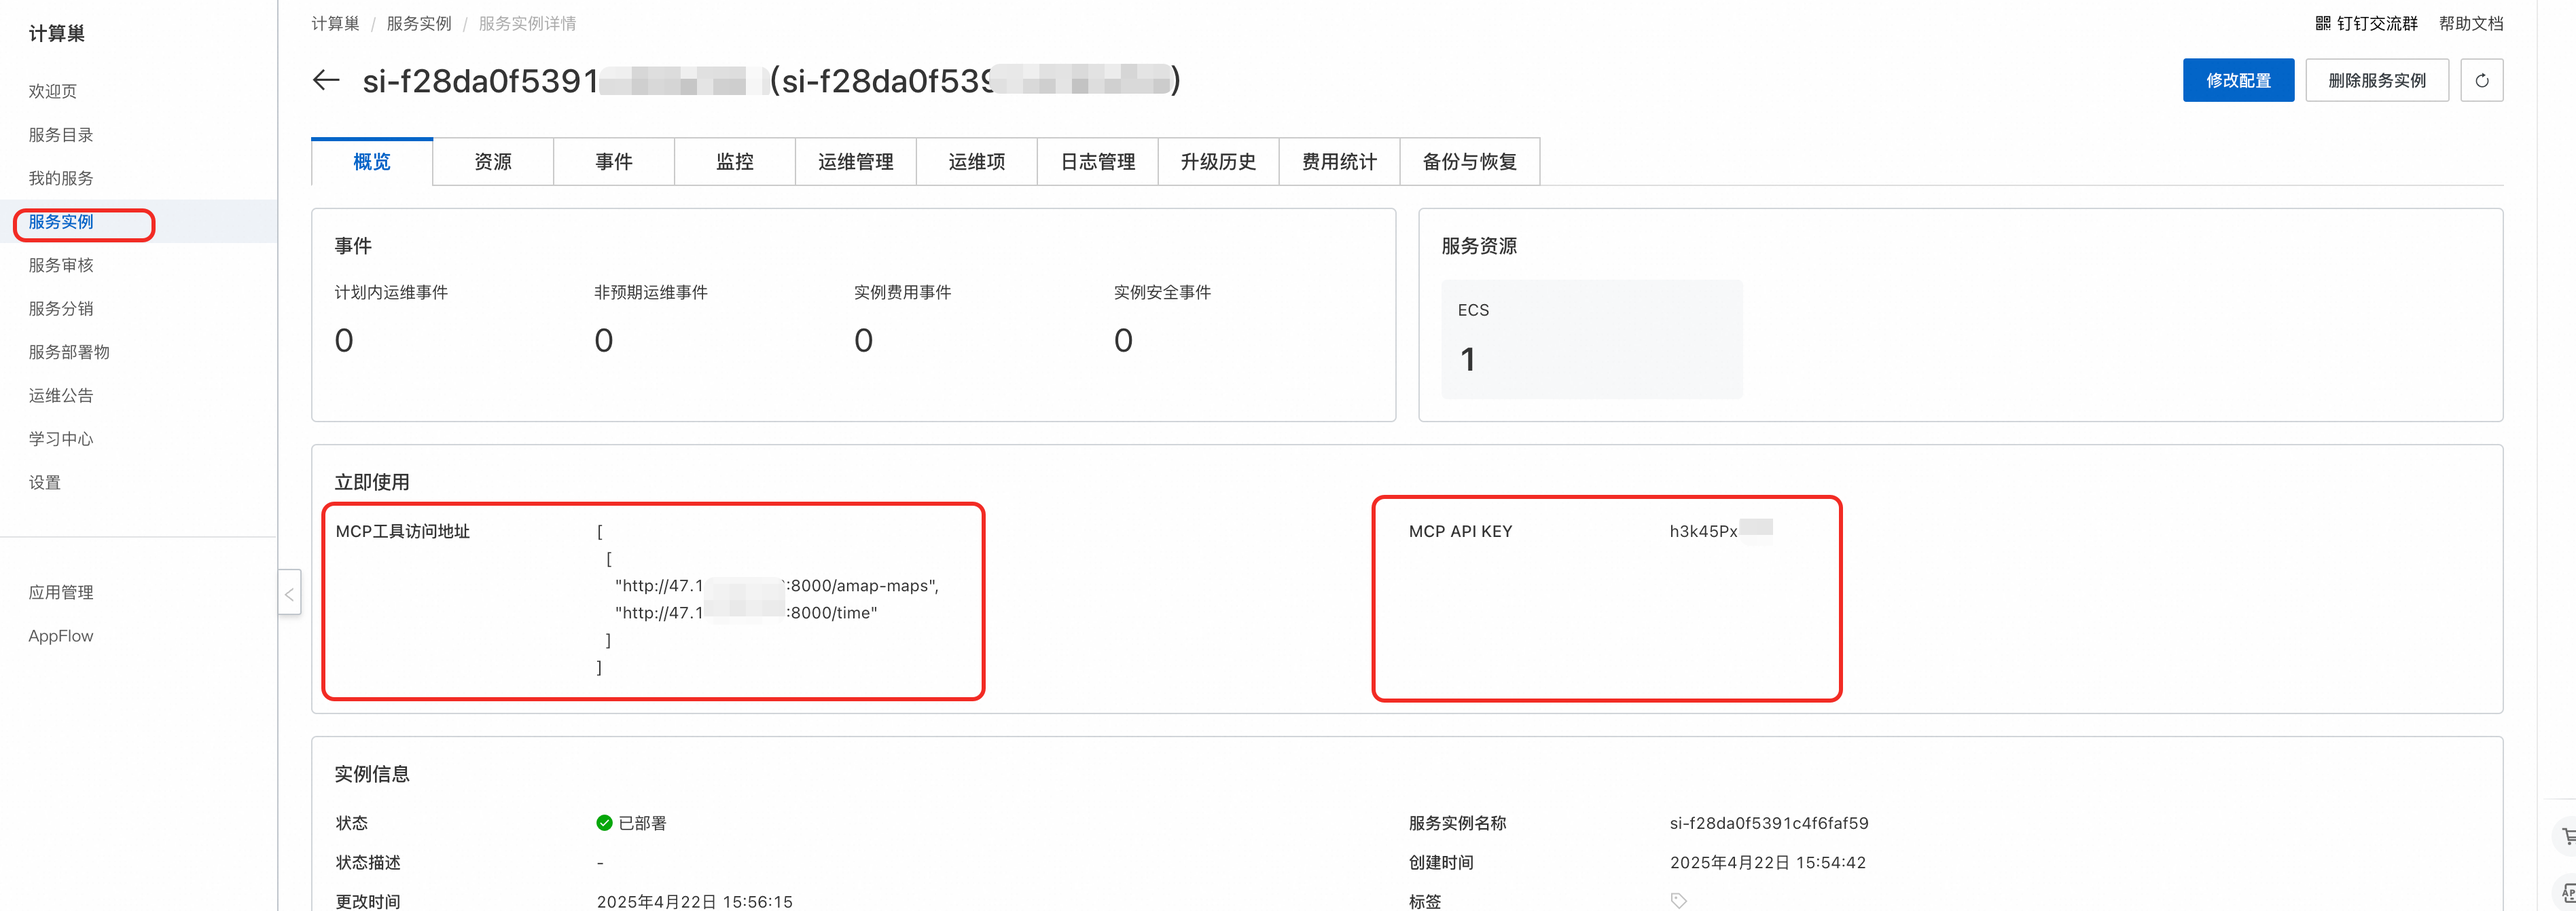
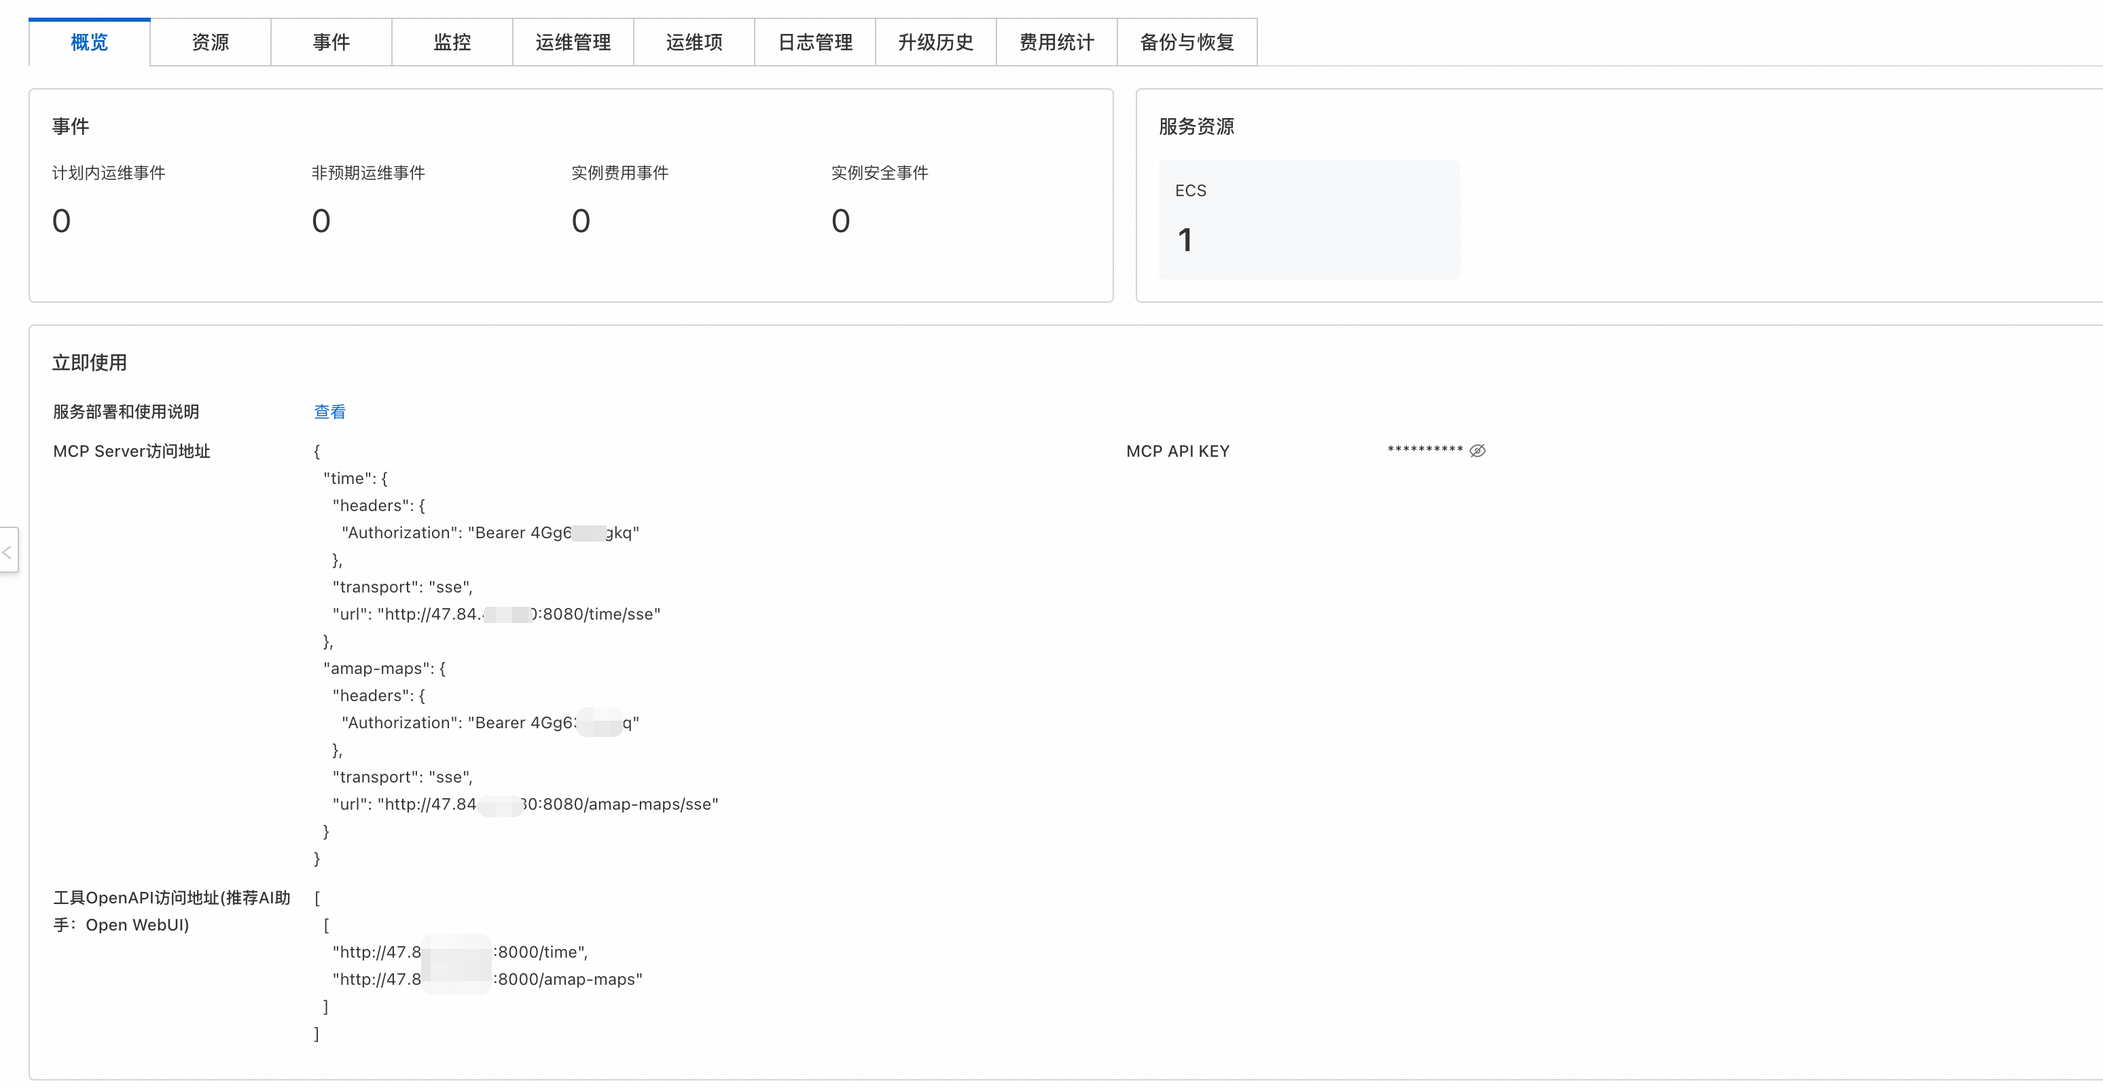
update doc

diff --git a/docs/index.md b/docs/index.md
@@ -3,6 +3,11 @@
 ## 概述
 
 MCP（Model Context Protocol，模型上下文协议） ，2024年11月底，由 Anthropic 推出的一种开放标准，旨在统一大型语言模型（LLM）与外部数据源和工具之间的通信协议。MCP 的主要目的在于解决当前 AI 模型因数据孤岛限制而无法充分发挥潜力的难题，MCP 使得 AI 应用能够安全地访问和操作本地及远程数据，为 AI 应用提供了连接万物的接口。
+本服务创造性地解决了传统MCP市场的以下问题：
+1. 每次只能选择单个MCP工具进行部署。--本服务支持多选MCP工具同时部署
+2. 不能同时兼容OpenAPI和SSE的方式调用工具，这导致只能适配部分平台。--本服务支持两种方式调用，支持Dify，Cherry Studio，OpenWebUI等AI助手。
+3. 无法灵活增减要使用的MCP工具。--本服务支持通过变配动态增删要使用的MCP工具。
+
 本文向您介绍如何开通计算巢上的`MCP Server社区版`服务，以及部署流程和使用说明。
 ## 前提条件
 <font style="color:rgb(51, 51, 51);">部署Dify社区版服务实例，需要对部分阿里云资源进行访问和创建操作。因此您的账号需要包含如下资源的权限。</font><font style="color:rgb(51, 51, 51);"> </font>**<font style="color:rgb(51, 51, 51);">说明</font>**<font style="color:rgb(51, 51, 51);">：当您的账号是RAM账号时，才需要添加此权限。</font>
@@ -66,7 +71,7 @@ MCP Server社区版在计算巢上的费用主要涉及：
 6. 配置你的ECS实例规格，建议选择2核4G的规格以上。配置ECS登录密码![img_4.png](img-deploy/img_4.png)
 7. 对可用区和网络进行配置。推荐选择任意可用区后，直接新建网络和虚拟机![img_5.png](img-deploy/img_5.png)
 8. 点击立即创建，等待部署成功，该过程一般耗时3分钟。该时长根据您选择的工具的多少有所波动。![img_6.png](img-deploy/img_6.png)
-9. 访问刚部署成功的实例界面，可查看到您部署的专属MCP工具的地址和API秘钥。![img_7.png](img-deploy/img_7.png)
+9. 访问刚部署成功的实例界面，可查看到您部署的专属MCP工具的地址和API秘钥。以下使用以Open WebUI为例，如需要查看Dify，Cherry Studio助手的引入，请参考下文![img_7.png](img-deploy/img_7.png)
 10. 打开您的AI助手客户端，如Open WebUI，并将地址和API秘钥粘贴进去。![img_8.png](img-deploy/img_8.png)
 11. 新建个对话，并开启MCP工具![img_9.png](img-deploy/img_9.png)
 12. 验证一下AI使用您的MCP工具！ ![img_10.png](img-deploy/img_10.png)
@@ -82,6 +87,21 @@ MCP Server社区版在计算巢上的费用主要涉及：
 5. 点击确定，发起工具修改请求。![img_3.png](update/img_3.png)
 6. 等待实例状态变更完。![img_4.png](update/img_4.png)
 7. 将输出中新增的MCP工具加入到AI对话客户端中。![img_5.png](update/img_5.png)
+
+
+## Cherry Studio使用示例
+1. 来到计算巢实例界面，![img_7.png](img-deploy/img_7.png),接下来的操作需要使用"MCP Server访问地址"部分
+2. 打开您的Cherry Studio助手，按照下图示例，新建MCP服务器。![img.png](cherry-studio/img.png)
+3. "名称"和描述可以随便填。
+4. 类型选择"服务器发送时间（sse)
+5. URL填写实例界面的此处链接![img_1.png](cherry-studio/img_1.png)  注意此处使用的是http协议，结尾是sse后缀
+6. 在请求头添加上鉴权参数：![img_2.png](cherry-studio/img_2.png)。注意此处需要将":"改为"="填入，比如Authorization=Bearer 123
+7. 点击右上角的启用按钮和保存按钮。![img_3.png](cherry-studio/img_3.png)
+8. 来到对话界面，选择要使用的MCP工具。![img_4.png](cherry-studio/img_4.png)
+9. 选择合适的模型，与AI对话，比如"我现在在杭州云谷，请给我推荐开车半小时以内的餐馆",即可让AI调用模型帮你找到合适的餐馆。
+
+
+## Dify 使用示例
 
 
 ## 问题排查
